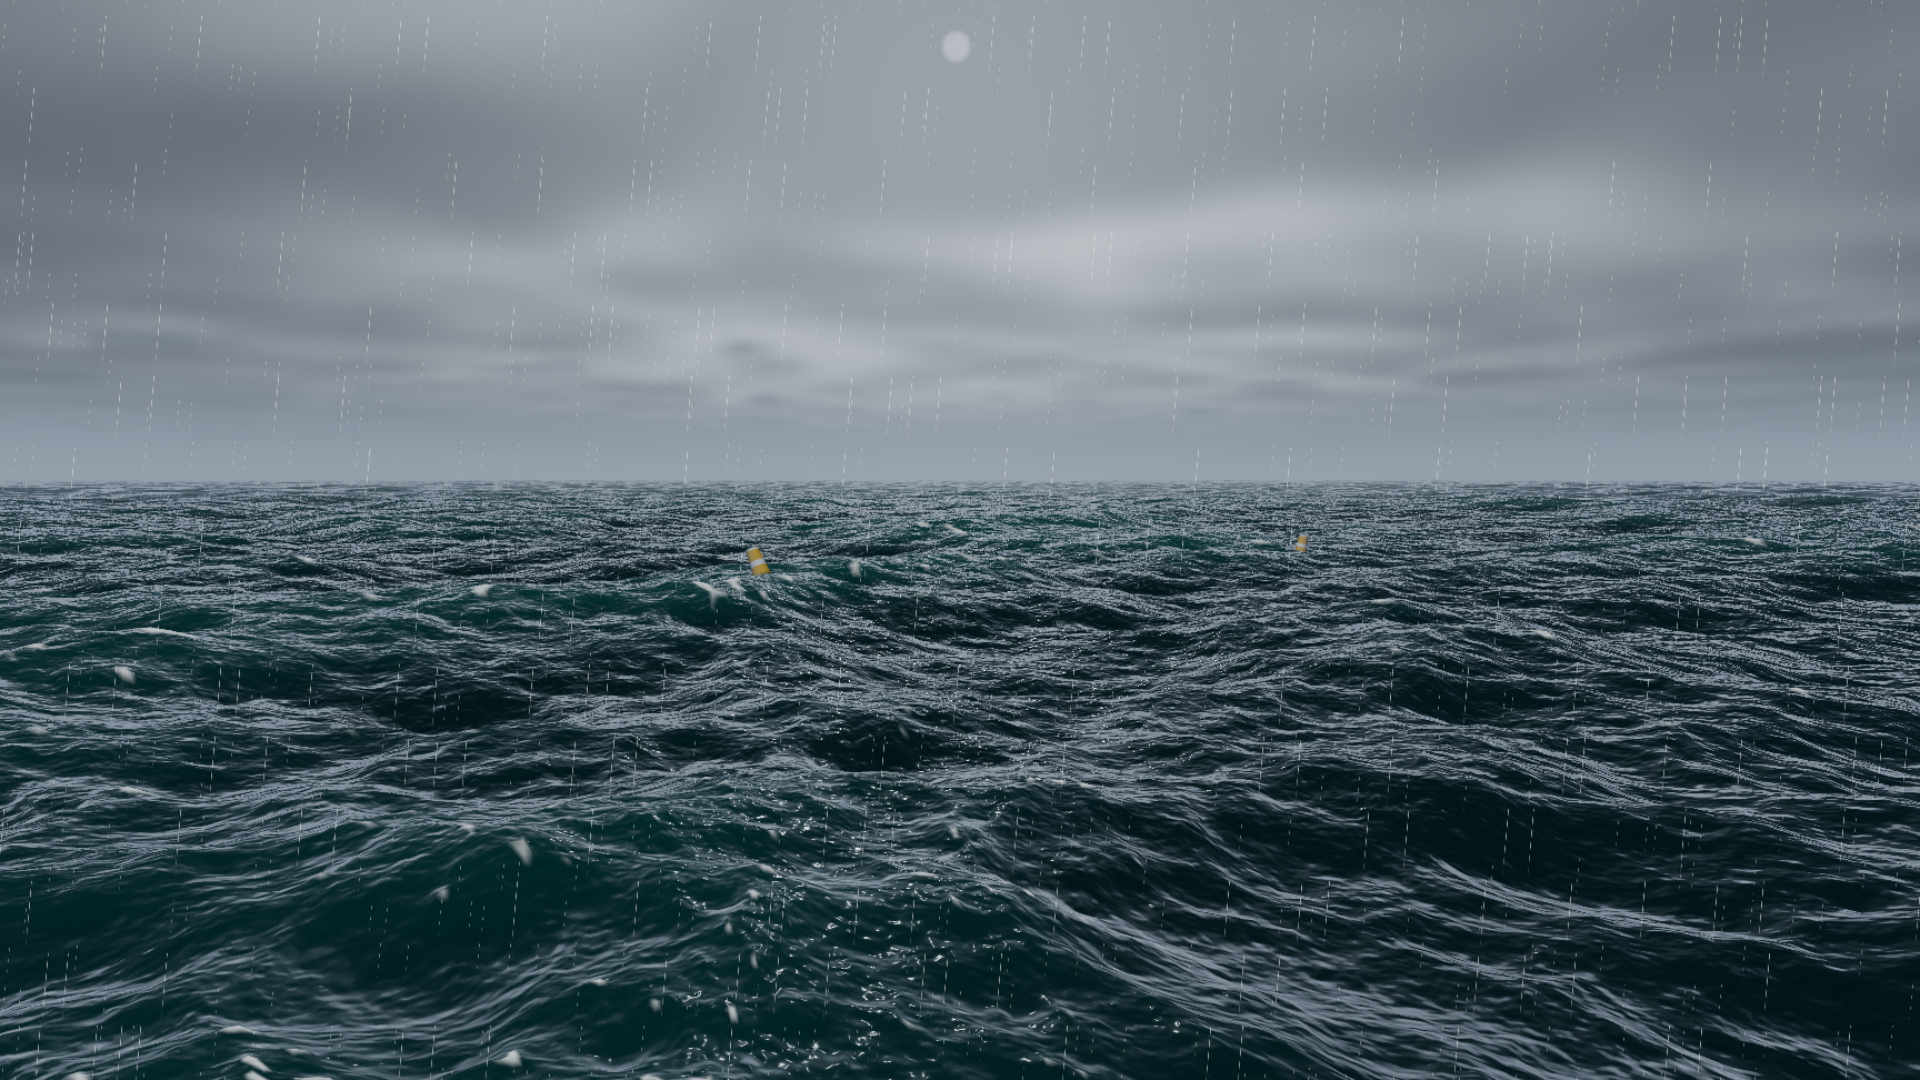
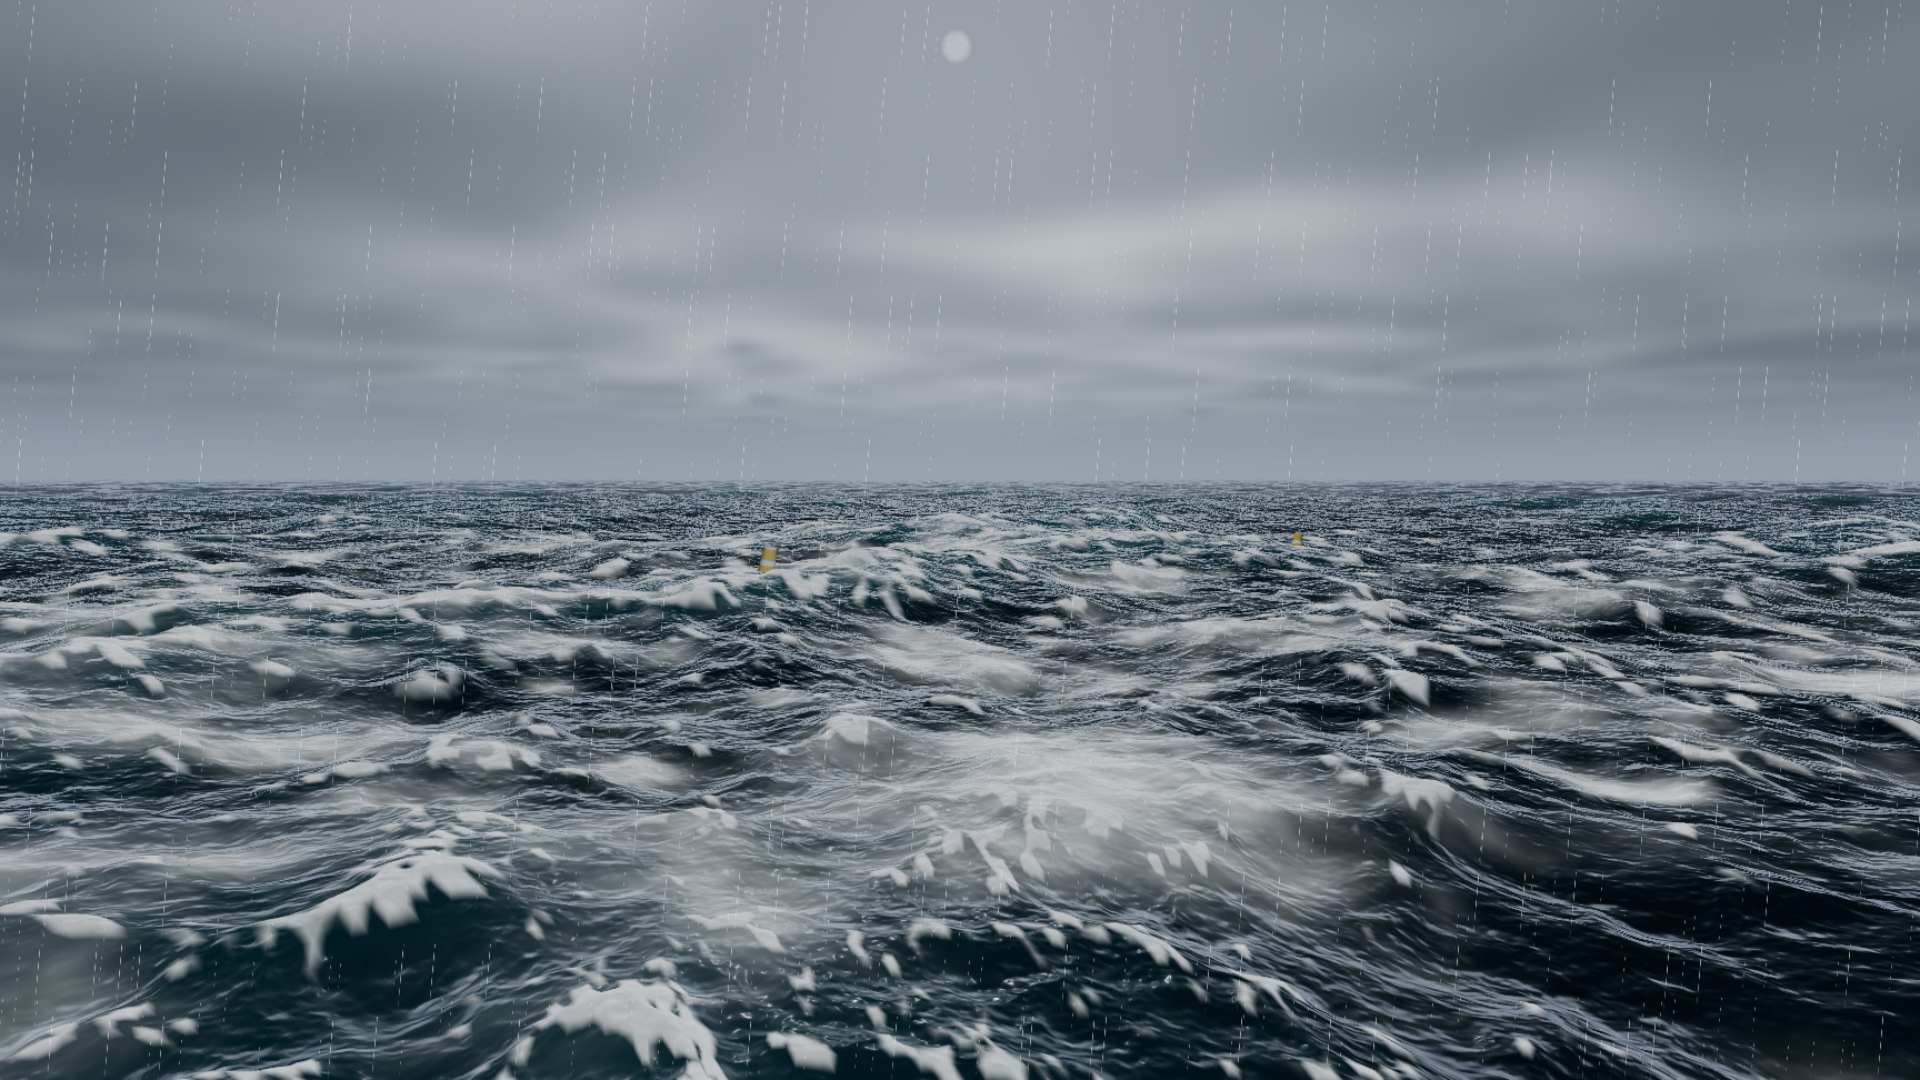
Give deep water real optics, roughness from slope, and whitecaps that fire
A side-by-side against a commercial reference scored our water 7.3 to its
8.4: opaque moving plane, metallic reflection, too few whitecaps for the
wave height, one direction of ripple repeating, horizon that looks like a
blur filter. Reading the code, four of those were structural, not tuning.

The absorption coefficients did nothing. With seabedEnabled 0 — eight of
ten presets — pathLen and depthScale were both maxPath, so their ratio was
exactly 1.0 and T was exactly 0. The water colour was a two-colour lerp
driven only by wave height; clarity and absorption were dead inputs. Deep
water now uses the model that applies when the column is effectively
infinite: upwelling radiance saturates at the single-scattering albedo, and
it saturates at a different depth per channel. Red is gone in about two
metres, blue survives twenty, so a trough loses its red and goes deep
blue-green while a crest face at a grazing angle keeps some and reads
translucent. The authored preset colours are kept as chromaticity and the
physics reshapes them. Gated on volumeGeom * (1 - seabedMix), so the lagoon
presets are unchanged by construction.

Roughness knew only camera distance. A steep chop face two metres away kept
a mirror-sharp lobe because the only thing the roughness knew was that the
pixel was near — that is the metallic look. It now comes from local slope
variance: the slope energy each cascade loses to distance (free, the sample
[…]

diff --git a/src/ocean/material.js b/src/ocean/material.js
@@ -19,7 +19,7 @@
 
 import { DoubleSide, FrontSide, Mesh, MeshBasicNodeMaterial } from 'three/webgpu';
 import {
-	Fn, If, abs, cameraPosition, dot, exp, faceDirection, float, length, max, min, mix,
+	Fn, If, abs, cameraPosition, dFdx, dFdy, dot, exp, faceDirection, float, length, max, min, mix,
 	mx_fractal_noise_float, normalize, oneMinus, positionGeometry, positionWorld, pow, reflect,
 	refract, saturate, screenUV, smoothstep, step, texture, varyingProperty, vec2, vec3,
 } from 'three/tsl';
@@ -154,6 +154,9 @@ export function createOceanMaterial( env, field, sky, opts = {} ) {
 
 		// Work in gradient space so the ripple slope adds to the wave slope
 		// correctly instead of being blended into a normalised vector.
+		// Sub-pixel slope variance, accumulated below and turned into roughness.
+		const sigma = float( 0 ).toVar( 'slopeVar' );
+
 		const invY = float( 1 ).div( max( Nw.y, float( 0.06 ) ) );
 		const grad = vec2( Nw.x.mul( invY ), Nw.z.mul( invY ) ).toVar( 'grad' );
 
@@ -169,7 +172,15 @@ export function createOceanMaterial( env, field, sky, opts = {} ) {
 
 				const [ a, b ] = spectral.slopeFade[ c ];
 				const fade = oneMinus( smoothstep( a, b, vRadial ) );
-				g.addAssign( sampleAt( spectral.slope[ c ], vRestXZ, spectral.sizes[ c ] ).xy.mul( fade ) );
+				const s = sampleAt( spectral.slope[ c ], vRestXZ, spectral.sizes[ c ] ).xy;
+
+				g.addAssign( s.mul( fade ) );
+
+				// The slope energy this cascade is *losing* to distance is exactly
+				// the slope the pixel can no longer resolve — which is what a
+				// roughness lobe is supposed to stand in for. Free: the sample is
+				// already in hand.
+				sigma.addAssign( dot( s, s ).mul( oneMinus( fade ).mul( oneMinus( fade ) ) ) );
 
 			}
 
@@ -189,7 +200,13 @@ export function createOceanMaterial( env, field, sky, opts = {} ) {
 
 		// Far water must go flat or the normal aliases into a shimmering band
 		// along the horizon.
-		const flatten = smoothstep( 900.0, 9000.0, vRadial ).toVar( 'flatten' );
+		// Pushed back out. The 900 m version was an aliasing patch that cost the
+		// horizon its shape — flat normals three kilometres out read as a blur
+		// filter, not as aerial perspective. The variance roughness above now does
+		// that job properly: as the cascades fade with distance their lost slope
+		// energy raises sigma, the lobe broadens to the Cox-Munk value the ramp used
+		// to force, and the normal survives.
+		const flatten = smoothstep( 3500.0, 22000.0, vRadial ).toVar( 'flatten' );
 		const N = normalize( mix( Nd, vec3( 0.0, 1.0, 0.0 ), flatten ) ).toVar( 'N' );
 
 		const nDotV = saturate( dot( N, V ) ).toVar( 'nDotV' );
@@ -214,11 +231,40 @@ export function createOceanMaterial( env, field, sky, opts = {} ) {
 		// This handoff is the sun's glitter track. Its width comes out of the wind
 		// speed rather than a tuned constant, so raising the wind widens the track
 		// the way it does on real water.
-		const rough = mix(
-			max( u.roughness, float( 0.020 ) ),
-			u.slopeRoughness,
-			smoothstep( 12.0, 520.0, vRadial )
+		// Roughness from *local* slope variance, not from camera distance.
+		//
+		// The distance ramp alone is what made the water look like painted metal:
+		// a steep chop face two metres away kept a mirror-sharp lobe because the
+		// only thing the roughness knew was that the pixel was near. Real water is
+		// roughest exactly where it is steepest — that is where the unresolved
+		// ripples live — so the lobe has to come from the surface, not the camera.
+		//
+		// Two variance sources, added in variance space (Toksvig/LEAN): what the
+		// cascades dropped to distance (accumulated above), and what this pixel's
+		// own footprint spans, from the screen-space derivative of the gradient.
+		// The first knows the real spectrum; the second catches everything the
+		// textures never had — mesh silhouette, procedural ripples, sheer angle.
+		const dgx = dFdx( grad ), dgy = dFdy( grad );
+		const sigmaP = dot( dgx, dgx ).add( dot( dgy, dgy ) ).toVar( 'slopeVarPix' );
+
+		const a0 = max( u.roughness, float( 0.020 ) ).toVar( 'baseRough' );
+		const aMax = max( u.slopeRoughness, a0 ).toVar( 'roughCeil' );
+
+		// Cox-Munk is the physical ceiling: it already is the total slope variance
+		// of the whole spectrum, so no local estimate may exceed it.
+		const alpha2 = a0.mul( a0 ).mul( a0 ).mul( a0 )
+			.add( sigma.add( sigmaP ).mul( u.varianceRough ).mul( 0.55 ) )
+			.toVar( 'alpha2' );
+
+		const rough = min(
+			max( pow( alpha2, 0.25 ), a0 ),
+			aMax
 		).toVar( 'rough' );
+
+		// Distance ramp retained as a floor for now — it is what currently carries
+		// the glitter track, and it is removed in the far-field step once the
+		// variance term is verified to reach the same value on its own.
+		rough.assign( max( rough, mix( a0, aMax, smoothstep( 12.0, 520.0, vRadial ) ) ) );
 
 		// How much of the sky one pixel of this surface integrates over. Feeding
 		// this to the sky function is a stand-in for a pre-convolved environment
@@ -334,7 +380,57 @@ export function createOceanMaterial( env, field, sky, opts = {} ) {
 		// 7-metre lagoon at 0.15 of the gradient, so every part of it came out the
 		// same pale shallow colour and the water read as a flat wash.
 		const depthScale = mix( maxPath, float( 24.0 ), u.seabedMix ).toVar( 'depthScale' );
-		const depthNorm = saturate( pathLen.div( depthScale ).mul( mix( float( 1.06 ), float( 0.68 ), crest ) ) ).toVar( 'depthNorm' );
+		const crestTerm = mix( float( 1.06 ), float( 0.68 ), crest ).toVar( 'crestTerm' );
+
+		/* --- deep-water optical volume --------------------------------- */
+
+		// With no bottom, the old code was degenerate: pathLen and depthScale were
+		// both maxPath, so their ratio was exactly 1.0 and the absorption
+		// coefficients had *no effect whatsoever* on the surface. Eight of the ten
+		// presets ran that way. The water was a two-colour lerp driven only by
+		// wave height — which is precisely why it read as an opaque moving plane
+		// rather than as a body of water.
+		//
+		// The right model when the column is effectively infinite is that upwelling
+		// radiance saturates at the single-scattering albedo, and it saturates at a
+		// different depth in every channel: red is gone within a couple of metres,
+		// blue survives twenty. So a trough — a long slant path through the
+		// near-surface layer — loses its red and goes deep blue-green, while a
+		// crest face seen at a grazing angle keeps some and reads bright and
+		// translucent. That per-channel difference is the whole effect.
+		const bb = u.backscatter.toVar( 'backscatter' );
+		const ext = u.absorption.add( bb ).toVar( 'extinction' );
+
+		// Depth of this pixel below the local wave envelope, along the refracted
+		// ray. The near-surface layer keeps a crest from ever going black.
+		const relDepth = max( u.waveHs.sub( vHeight ), float( 0.0 ) );
+		const dEff = relDepth.add( 0.6 ).div( max( refr.y.negate(), float( 0.28 ) ) ).toVar( 'dEff' );
+
+		const sat3 = oneMinus( exp( ext.mul( dEff ).negate() ) ).toVar( 'sat3' );
+		const albedo = bb.div( max( ext, vec3( 1e-4 ) ) ).toVar( 'ssAlbedo' );
+
+		// Only where there is no bottom. Over a seabed the existing Beer-Lambert
+		// path is already correct and already depth-graded, and holding the lagoon
+		// presets pixel-stable is the check that this change did not reach further
+		// than it was supposed to.
+		const gDeep = u.volumeGeom.mul( oneMinus( u.seabedMix ) ).toVar( 'gDeep' );
+
+		const depthNorm = saturate(
+			mix( saturate( pathLen.div( depthScale ) ), sat3.g, gDeep ).mul( crestTerm )
+		).toVar( 'depthNorm' );
+
+		// Chromaticity from the albedo, normalised so it only shifts hue and never
+		// brightness — the ten authored presets stay recognisable and absorption
+		// reshapes them rather than replacing them.
+		const tint = albedo.div( max( max( albedo.r, max( albedo.g, albedo.b ) ), float( 1e-4 ) ) ).toVar( 'volTint' );
+
+		// A trough sees less of the sky than a crest does. Cheap, and one of the
+		// strongest cues that the surface has relief rather than just a normal map.
+		const skyOcc = mix(
+			float( 1.0 ),
+			saturate( vHeight.div( max( u.waveHs, float( 0.30 ) ) ).mul( 0.45 ).add( 0.55 ) ),
+			gDeep
+		).toVar( 'skyOcc' );
 
 
 		// Beer-Lambert: how much of the bottom survives the water column.
@@ -344,7 +440,8 @@ export function createOceanMaterial( env, field, sky, opts = {} ) {
 		// plus upwelling scattered skylight. The second term is what ties the
 		// water's colour to the sky, so a preset change moves both together.
 		const volume = mix( u.waterShallow, u.waterDeep, depthNorm ).mul( ambient )
-			.add( u.waterScatter.mul( skyLight ).mul( 0.80 ) )
+			.mul( mix( vec3( 1.0 ), tint, gDeep ) )
+			.add( u.waterScatter.mul( skyLight ).mul( 0.80 ).mul( skyOcc ) )
 			.toVar( 'volume' );
 
 		const body = bedColor.mul( T ).add( volume.mul( oneMinus( T ) ) ).toVar( 'body' );
@@ -479,10 +576,14 @@ export function createOceanMaterial( env, field, sky, opts = {} ) {
 		}
 
 		// Distant foam is the worst aliasing source in the whole scene.
-		const foamFade = oneMinus( smoothstep( 300.0, 1900.0, vRadial ) );
+		const foamFade = oneMinus( smoothstep( 1200.0, 6000.0, vRadial ) );
 
 		const erode = foamFine.mul( 0.62 ).add( foamPatch.mul( 0.52 ) ).add( 0.14 ).toVar( 'foamErode' );
-		const foamMask = smoothstep( 0.22, 0.70, foamRaw.mul( erode ) ).mul( foamFade ).toVar( 'foamMask' );
+		// One onset test, not two. foamFromJacobian already decides *whether* a crest
+		// breaks; this smoothstep used to decide it again, and the two in series meant
+		// a fully saturated whitecap landed mid-ramp at ~0.51 and could never reach
+		// white. This band now only shapes the edge.
+		const foamMask = smoothstep( 0.05, 0.55, foamRaw.mul( erode ) ).mul( foamFade ).toVar( 'foamMask' );
 
 		// Foam is lit, not painted white: it darkens in shadow and warms at sunset.
 		const foamLit = u.foamColor.mul(

diff --git a/src/env/uniforms.js b/src/env/uniforms.js
@@ -27,7 +27,8 @@ export const SCALAR_KEYS = [
 	'waveHeight', 'waveChoppy', 'windSpeed', 'windAngle', 'waveScale', 'detailStrength',
 	// water optics
 	'waterClarity', 'absorptionR', 'absorptionG', 'absorptionB',
-	'roughness', 'sssStrength', 'reflectivity',
+	'roughness', 'sssStrength', 'reflectivity', 'varianceRough',
+	'volumeGeom', 'scatterStrength',
 	// foam
 	'foamAmount', 'foamThreshold', 'foamPersistence', 'foamSharpness',
 	// underwater
@@ -97,6 +98,9 @@ export function createEnv() {
 		absorptionG: 0.11,
 		absorptionB: 0.055,
 		roughness: 0.09,
+		varianceRough: 1.0,
+		volumeGeom: 1.0,
+		scatterStrength: 0.085,
 		sssStrength: 1.0,        // back-lit wave crest translucency
 		reflectivity: 1.0,
 
@@ -174,6 +178,17 @@ export function createEnv() {
 		absorption: uniform( new Vector3() ),
 		waterClarity: uniform( 1 ),
 		roughness: uniform( 0.09 ),
+
+		// Kill switch for the local slope-variance roughness term: 0 restores the
+		// pure camera-distance ramp, which is what A/B measurement needs.
+		varianceRough: uniform( 1 ),
+
+		// Deep-water volume. volumeGeom is the kill switch — 0 restores the old
+		// wave-height-only lerp exactly. backscatter is the water's b_b, which
+		// together with absorption sets the single-scattering albedo.
+		volumeGeom: uniform( 1 ),
+		backscatter: uniform( new Vector3( 0.02, 0.05, 0.06 ) ),
+		waveHs: uniform( 1.8 ),
 		sssStrength: uniform( 1 ),
 		reflectivity: uniform( 1 ),
 
@@ -309,11 +324,34 @@ export function syncUniforms( env, dt = 0 ) {
 	u.absorption.value.set( p.absorptionR * inv, p.absorptionG * inv, p.absorptionB * inv );
 	u.waterClarity.value = p.waterClarity;
 	u.roughness.value = p.roughness;
+	u.varianceRough.value = p.varianceRough ?? 1;
+	u.volumeGeom.value = p.volumeGeom ?? 1;
+	u.waveHs.value = Math.max( 0.05, p.waveHeight );
+
+	// Backscatter shares the scatter colour's chromaticity — they describe the
+	// same particulate — scaled to a coefficient in inverse metres.
+	{
+
+		const c = u.waterScatter.value;
+		const k = ( p.scatterStrength ?? 0.085 ) * inv;
+		u.backscatter.value.set( Math.max( 1e-4, c.r * k ), Math.max( 1e-4, c.g * k ), Math.max( 1e-4, c.b * k ) );
+
+	}
 	u.sssStrength.value = p.sssStrength;
 	u.reflectivity.value = p.reflectivity;
 
 	u.foamAmount.value = p.foamAmount;
-	u.foamThreshold.value = p.foamThreshold;
+	// Whitecap coverage from wind speed (Monahan & O'Muircheartaigh 1980):
+	// W = 3.84e-6 * U^3.41, the fraction of sea surface actively breaking. It is a
+	// very steep law — 9.5 m/s gives ~0.8%, 21 m/s gives ~12% — and using it to
+	// lower the fold threshold means coverage tracks the wind instead of being ten
+	// hand-tuned preset numbers that all happened to sit above the onset.
+	{
+
+		const W = 3.84e-6 * Math.pow( Math.max( 0.5, p.windSpeed ), 3.41 );
+		u.foamThreshold.value = p.foamThreshold * ( 1 - 0.55 * Math.min( 1, W / 0.02 ) );
+
+	}
 	u.foamSharpness.value = p.foamSharpness;
 	setColor( u.foamColor.value, p.foamColor );
 

diff --git a/src/ocean/spectrum.js b/src/ocean/spectrum.js
@@ -31,10 +31,22 @@ import { GRAVITY, TAU, mulberry32 } from '../core/util.js';
  * The k-range cutoffs make the bands disjoint so energy is never counted twice
  * where the domains overlap.
  */
+/**
+ * `axisOffset` is the band's mean direction relative to the wind, in degrees.
+ *
+ * Spreading all three bands about one axis is what makes a procedural sea read
+ * as corduroy: every scale runs the same way, so the whole surface is one set of
+ * parallel wrinkles and the eye reads a texture rather than water. Real seas
+ * almost never look like that. Swell arrives from wherever it was generated,
+ * often a day's travel away and twenty to sixty degrees off the local wind,
+ * while the chop is close to isotropic. Crossing the bands costs nothing — it
+ * is a different sampling of the same spectrum — and it is the single largest
+ * improvement available to the wave field.
+ */
 export const CASCADES = [
-	{ size: 512, kMin: 0.0, kMax: 0.055 },   // swell — wavelengths above ~114 m
-	{ size: 96, kMin: 0.055, kMax: 0.35 },  // wind sea
-	{ size: 18, kMin: 0.35, kMax: 1e9 },    // chop and ripples
+	{ size: 512, kMin: 0.0, kMax: 0.055, axisOffset: 35 },   // swell — above ~114 m
+	{ size: 96, kMin: 0.055, kMax: 0.35, axisOffset: 0 },   // wind sea, on the wind
+	{ size: 18, kMin: 0.35, kMax: 1e9, axisOffset: - 12 },  // chop and ripples
 ];
 
 /**
@@ -87,7 +99,12 @@ function directionalSpread( theta, k, wind ) {
 		? 6.97 * Math.pow( ratio, 4.06 )
 		: 9.77 * Math.pow( ratio, - 2.33 );
 
-	const spread = Math.pow( Math.abs( Math.cos( theta * 0.5 ) ), 2 * Math.max( 0.5, s ) );
+	// The exponent floor also sets how tightly the shortest waves fan out. Held
+	// at 0.5 the chop stayed noticeably combed; capillary-scale waves are stirred
+	// by every gust and eddy and are very nearly isotropic, so the floor drops
+	// with wavenumber.
+	const floor = k > 0.35 ? 0.18 : 0.5;
+	const spread = Math.pow( Math.abs( Math.cos( theta * 0.5 ) ), 2 * Math.max( floor, s ) );
 
 	// A small isotropic floor keeps the surface from becoming a pure corduroy
 	// pattern when the wind axis dominates completely.
@@ -114,7 +131,8 @@ export function buildInitialSpectrum( cascade, N, p, seed ) {
 	const L = cascade.size;
 	const rnd = mulberry32( seed ^ ( L * 2654435761 ) );
 
-	const windRad = p.windAngle * Math.PI / 180;
+	// Each band gets its own mean direction — see the note on CASCADES.
+	const windRad = ( p.windAngle + ( cascade.axisOffset ?? 0 ) ) * Math.PI / 180;
 	const windX = Math.sin( windRad );
 	const windZ = Math.cos( windRad );
 

diff --git a/src/env/presets.js b/src/env/presets.js
@@ -201,9 +201,12 @@ export const PRESETS = [
 			foamAmount: 0.62, foamThreshold: 0.55, foamPersistence: 0.68,
 			foamSharpness: 1.05, foamColor: '#f4fbff',
 
-			uwTint: '#0a5a86', uwVisibility: 30, causticStrength: 0.55, particleDensity: 0.40,
+			uwTint: '#0a5a86', uwVisibility: 34, causticStrength: 0.62, particleDensity: 0.40,
 
-			seabedEnabled: 0, seabedDepth: 40, seabedColor: '#7d7660',
+			// A bottom at 22 m. Deep enough that the water is unmistakably ocean,
+			// shallow enough that the column visibly changes colour across a sandbar
+			// — which is the single richest thing a shot of water can show.
+			seabedEnabled: 1, seabedDepth: 22, seabedColor: '#b9b49a',
 		},
 	},
 

diff --git a/src/ocean/spectral.js b/src/ocean/spectral.js
@@ -223,7 +223,10 @@ export class SpectralOcean {
 				const dz = p1.x.mul( amp ).mul( this.uChoppy );
 				const dYdx = p1.y.mul( amp );
 				const dYdz = p2.x.mul( amp );
-				const divergence = p2.y.mul( amp ).mul( this.uChoppy );
+				// Raw, *not* scaled by choppiness. uChoppy is how far the surface is
+				// displaced horizontally; it has no business shrinking the folding
+				// metric by 20% before the whitecap test even sees it.
+				const divergence = p2.y.mul( amp );
 
 				textureStore( dispTex, ivec2( int( x ), int( z ) ), vec4( dx, dy, dz, divergence ) ).toStack();
 				textureStore( slopeTex, ivec2( int( x ), int( z ) ), vec4( dYdx, dYdz, 0, 1 ) ).toStack();
